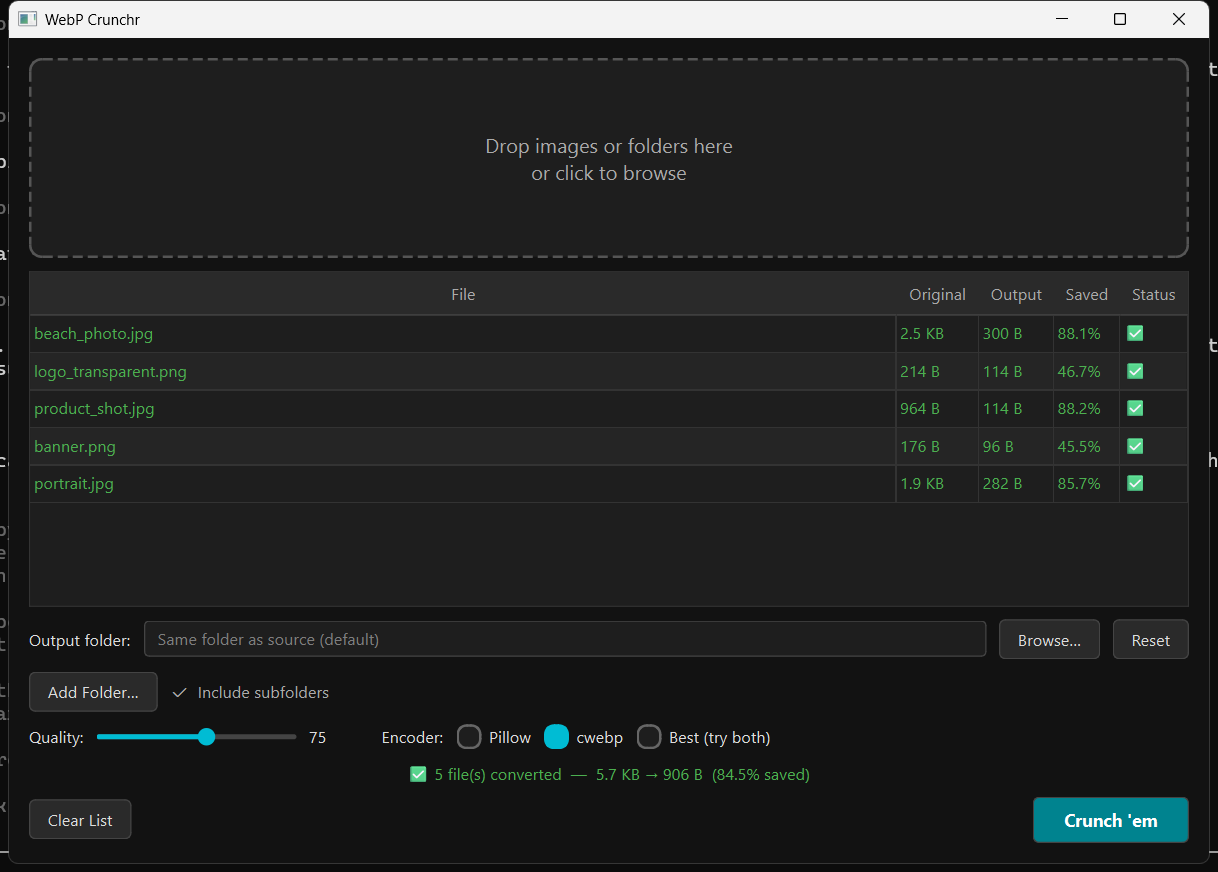
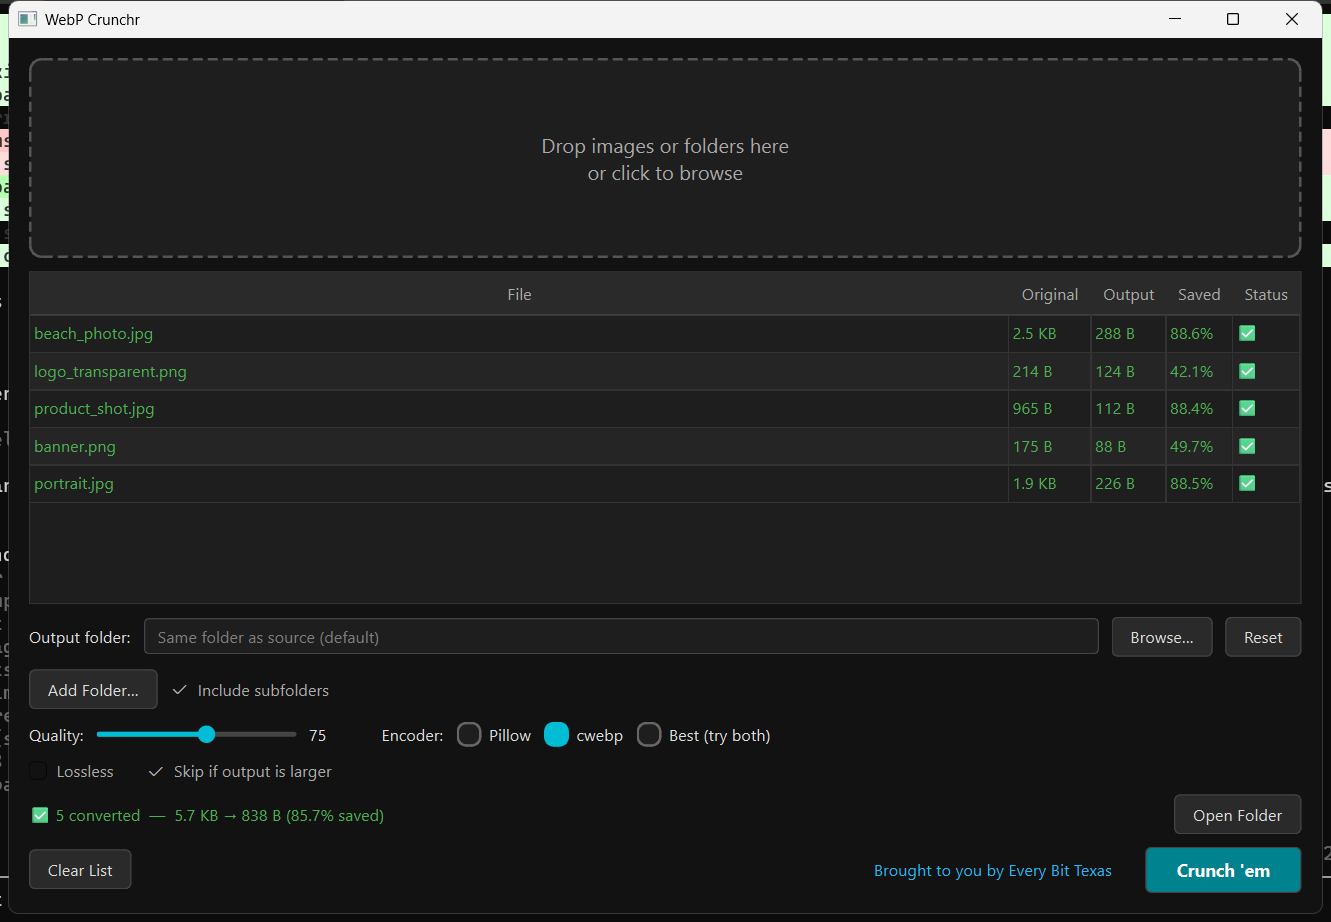
feat: lossless mode, skip-if-larger, open folder button, attribution link, updated screenshots
- converter: lossless param for both Pillow and cwebp backends
- converter: skip_if_larger option deletes output and returns 'skipped' if output >= source
- worker: passes lossless + skip_if_larger; file_done signal now includes status string
- ui: Lossless checkbox (default off)
- ui: 'Skip if output is larger' checkbox (default on)
- ui: 'Open Folder' button appears after conversion completes
- ui: 'Brought to you by Every Bit Texas' clickable attribution link
- ui: skipped status shown in amber with skip icon and counted in summary
- screenshots: refreshed both empty_state and results_state

diff --git a/ui/main_window.py b/ui/main_window.py
@@ -1,4 +1,5 @@
 import os
+import subprocess
 from pathlib import Path
 
 from PyQt6.QtWidgets import (
@@ -6,8 +7,8 @@ from PyQt6.QtWidgets import (
     QPushButton, QLabel, QSlider, QLineEdit, QFileDialog,
     QProgressBar, QCheckBox, QSizePolicy, QMessageBox, QRadioButton, QButtonGroup,
 )
-from PyQt6.QtCore import Qt, QThread, pyqtSignal, QObject
-from PyQt6.QtGui import QDragEnterEvent, QDropEvent
+from PyQt6.QtCore import Qt, QThread, pyqtSignal, QObject, QUrl
+from PyQt6.QtGui import QDragEnterEvent, QDropEvent, QDesktopServices
 
 from ui.drop_zone import DropZone
 from ui.file_list import FileListWidget, FileEntry
@@ -97,15 +98,18 @@ QRadioButton:disabled { color: #555; }
 
 
 class ConversionWorker(QObject):
-    progress = pyqtSignal(int, int)           # current, total
-    file_done = pyqtSignal(str, int, str)     # path, output_size, error
+    progress = pyqtSignal(int, int)               # current, total
+    file_done = pyqtSignal(str, int, str, str)    # path, output_size, error, status
     finished = pyqtSignal()
 
-    def __init__(self, entries: list[FileEntry], quality: int, encoder: str):
+    def __init__(self, entries: list[FileEntry], quality: int, encoder: str,
+                 lossless: bool = False, skip_if_larger: bool = False):
         super().__init__()
         self._entries = entries
         self._quality = quality
         self._encoder = encoder
+        self._lossless = lossless
+        self._skip_if_larger = skip_if_larger
         self._cancelled = False
 
     def cancel(self):
@@ -118,11 +122,19 @@ class ConversionWorker(QObject):
                 break
             dest = output_path(entry.path, entry.output_dir)
             try:
-                convert(entry.path, dest, self._quality, self._encoder)
-                size = Path(dest).stat().st_size
-                self.file_done.emit(entry.path, size, "")
+                result = convert(
+                    entry.path, dest, self._quality,
+                    encoder=self._encoder,
+                    lossless=self._lossless,
+                    skip_if_larger=self._skip_if_larger,
+                )
+                if result == "skipped":
+                    self.file_done.emit(entry.path, 0, "", "skipped")
+                else:
+                    size = Path(dest).stat().st_size
+                    self.file_done.emit(entry.path, size, "", "done")
             except Exception as exc:
-                self.file_done.emit(entry.path, -1, str(exc))
+                self.file_done.emit(entry.path, -1, str(exc), "error")
             self.progress.emit(i + 1, total)
         self.finished.emit()
 
@@ -169,7 +181,7 @@ class MainWindow(QMainWindow):
         out_row.addWidget(clear_out_btn)
         layout.addLayout(out_row)
 
-        # Add folder row
+        # Add folder + subfolder row
         folder_row = QHBoxLayout()
         add_folder_btn = QPushButton("Add Folder…")
         add_folder_btn.clicked.connect(self._pick_input_folder)
@@ -180,7 +192,7 @@ class MainWindow(QMainWindow):
         folder_row.addStretch()
         layout.addLayout(folder_row)
 
-        # Quality + cwebp row
+        # Quality + encoder row
         opts_row = QHBoxLayout()
         opts_row.addWidget(QLabel("Quality:"))
         self.quality_slider = QSlider(Qt.Orientation.Horizontal)
@@ -205,7 +217,6 @@ class MainWindow(QMainWindow):
         self._encoder_group.addButton(self._radio_pillow)
         self._encoder_group.addButton(self._radio_cwebp)
         self._encoder_group.addButton(self._radio_best)
-        # Default to cwebp — it's bundled and consistently produces smaller files
         self._radio_cwebp.setChecked(True)
         opts_row.addWidget(self._radio_pillow)
         opts_row.addWidget(self._radio_cwebp)
@@ -218,17 +229,36 @@ class MainWindow(QMainWindow):
         opts_row.addStretch()
         layout.addLayout(opts_row)
 
+        # Extra options row
+        extra_row = QHBoxLayout()
+        self.lossless_check = QCheckBox("Lossless")
+        self.lossless_check.setToolTip("Encode as lossless WebP — larger files but pixel-perfect. Best for logos and text graphics.")
+        extra_row.addWidget(self.lossless_check)
+        extra_row.addSpacing(16)
+        self.skip_larger_check = QCheckBox("Skip if output is larger")
+        self.skip_larger_check.setToolTip("Don't write the .webp file if it ends up bigger than the source.")
+        self.skip_larger_check.setChecked(True)
+        extra_row.addWidget(self.skip_larger_check)
+        extra_row.addStretch()
+        layout.addLayout(extra_row)
+
         # Progress bar
         self.progress_bar = QProgressBar()
         self.progress_bar.setVisible(False)
         layout.addWidget(self.progress_bar)
 
-        # Summary label
+        # Summary + open folder row
+        summary_row = QHBoxLayout()
         self.summary_label = QLabel("")
-        self.summary_label.setAlignment(Qt.AlignmentFlag.AlignCenter)
+        self.summary_label.setAlignment(Qt.AlignmentFlag.AlignVCenter)
         self.summary_label.setStyleSheet("color: #4caf50; font-size: 13px;")
         self.summary_label.setVisible(False)
-        layout.addWidget(self.summary_label)
+        summary_row.addWidget(self.summary_label, stretch=1)
+        self.open_folder_btn = QPushButton("Open Folder")
+        self.open_folder_btn.setVisible(False)
+        self.open_folder_btn.clicked.connect(self._open_output_folder)
+        summary_row.addWidget(self.open_folder_btn)
+        layout.addLayout(summary_row)
 
         # Action buttons row
         btn_row = QHBoxLayout()
@@ -236,6 +266,12 @@ class MainWindow(QMainWindow):
         self.clear_btn.clicked.connect(self._clear_list)
         btn_row.addWidget(self.clear_btn)
         btn_row.addStretch()
+        # Attribution link
+        attr_label = QLabel('<a href="https://everybittexas.com/" style="color:#29b6f6; text-decoration:none;">Brought to you by Every Bit Texas</a>')
+        attr_label.setOpenExternalLinks(True)
+        attr_label.setAlignment(Qt.AlignmentFlag.AlignVCenter)
+        btn_row.addWidget(attr_label)
+        btn_row.addSpacing(16)
         self.crunch_btn = QPushButton("Crunch 'em")
         self.crunch_btn.setObjectName("crunch_btn")
         self.crunch_btn.clicked.connect(self._start_conversion)
@@ -291,6 +327,7 @@ class MainWindow(QMainWindow):
         self.file_list.clear_entries()
         self.summary_label.setVisible(False)
         self.progress_bar.setVisible(False)
+        self.open_folder_btn.setVisible(False)
 
     def _start_conversion(self):
         entries = [e for e in self.file_list.entries() if e.status == "queued"]
@@ -306,7 +343,11 @@ class MainWindow(QMainWindow):
         else:
             encoder = ENCODER_PILLOW
 
+        lossless = self.lossless_check.isChecked()
+        skip_if_larger = self.skip_larger_check.isChecked()
+
         self.crunch_btn.setEnabled(False)
+        self.open_folder_btn.setVisible(False)
         self.progress_bar.setRange(0, len(entries))
         self.progress_bar.setValue(0)
         self.progress_bar.setVisible(True)
@@ -315,7 +356,7 @@ class MainWindow(QMainWindow):
         for e in entries:
             self.file_list.update_entry(e.path, status="processing")
 
-        self._worker = ConversionWorker(entries, quality, encoder)
+        self._worker = ConversionWorker(entries, quality, encoder, lossless, skip_if_larger)
         self._thread = QThread()
         self._worker.moveToThread(self._thread)
         self._thread.started.connect(self._worker.run)
@@ -330,32 +371,49 @@ class MainWindow(QMainWindow):
     def _on_progress(self, current: int, total: int):
         self.progress_bar.setValue(current)
 
-    def _on_file_done(self, path: str, output_size: int, error: str):
-        if error:
+    def _on_file_done(self, path: str, output_size: int, error: str, status: str):
+        if status == "error":
             self.file_list.update_entry(path, status="error", error_msg=error)
+        elif status == "skipped":
+            self.file_list.update_entry(path, status="skipped")
         else:
             self.file_list.update_entry(path, status="done", output_size=output_size)
 
     def _on_finished(self):
         self.crunch_btn.setEnabled(True)
+        self.progress_bar.setVisible(False)
         self._show_summary()
+
+    def _open_output_folder(self):
+        entries = self.file_list.entries()
+        done = [e for e in entries if e.status in ("done", "skipped")]
+        if not done:
+            return
+        # Use the first done entry's output dir (or source dir if default)
+        e = done[0]
+        folder = e.output_dir if e.output_dir else str(Path(e.path).parent)
+        QDesktopServices.openUrl(QUrl.fromLocalFile(folder))
 
     def _show_summary(self):
         entries = self.file_list.entries()
-        done = [e for e in entries if e.status == "done" and e.output_size is not None]
-        errors = [e for e in entries if e.status == "error"]
-        if not done:
+        done    = [e for e in entries if e.status == "done" and e.output_size is not None]
+        skipped = [e for e in entries if e.status == "skipped"]
+        errors  = [e for e in entries if e.status == "error"]
+        if not done and not skipped:
             return
-        total_in = sum(e.original_size for e in done)
-        total_out = sum(e.output_size for e in done)
-        saved = total_in - total_out
-        pct = (saved / total_in * 100) if total_in else 0
-        msg = (
-            f"✅ {len(done)} file(s) converted  —  "
-            f"{format_size(total_in)} → {format_size(total_out)}  "
-            f"({pct:.1f}% saved)"
-        )
+        parts = []
+        if done:
+            total_in  = sum(e.original_size for e in done)
+            total_out = sum(e.output_size for e in done)
+            pct = (1 - total_out / total_in) * 100 if total_in else 0
+            parts.append(
+                f"✅ {len(done)} converted  —  "
+                f"{format_size(total_in)} → {format_size(total_out)} ({pct:.1f}% saved)"
+            )
+        if skipped:
+            parts.append(f"⏭ {len(skipped)} skipped (already smallest)")
         if errors:
-            msg += f"  ⚠ {len(errors)} error(s)"
-        self.summary_label.setText(msg)
+            parts.append(f"⚠ {len(errors)} error(s)")
+        self.summary_label.setText("   ".join(parts))
         self.summary_label.setVisible(True)
+        self.open_folder_btn.setVisible(True)

diff --git a/core/converter.py b/core/converter.py
@@ -20,7 +20,6 @@ ENCODER_BEST   = "best"
 
 
 def _cwebp_path() -> str | None:
-    """Return path to cwebp: bundled copy first, then system PATH."""
     if hasattr(sys, "_MEIPASS"):
         bundled = Path(sys._MEIPASS) / "cwebp.exe"
         if bundled.exists():
@@ -35,7 +34,7 @@ def cwebp_available() -> bool:
     return _cwebp_path() is not None
 
 
-def convert_with_pillow(src: str, dest: str, quality: int) -> None:
+def convert_with_pillow(src: str, dest: str, quality: int, lossless: bool = False) -> None:
     with Image.open(src) as img:
         if getattr(img, "is_animated", False):
             img.seek(0)
@@ -45,37 +44,60 @@ def convert_with_pillow(src: str, dest: str, quality: int) -> None:
             out = img.convert("RGBA")
         else:
             out = img.convert("RGB")
-        out.save(dest, format="WEBP", quality=quality, method=6, lossless=False, exif=b"")
+        if lossless:
+            out.save(dest, format="WEBP", lossless=True, method=6, exif=b"")
+        else:
+            out.save(dest, format="WEBP", quality=quality, method=6, lossless=False, exif=b"")
 
 
-def convert_with_cwebp(src: str, dest: str, quality: int) -> None:
+def convert_with_cwebp(src: str, dest: str, quality: int, lossless: bool = False) -> None:
     exe = _cwebp_path()
-    cmd = [exe, "-q", str(quality), "-m", "6", "-metadata", "none", src, "-o", dest]
+    if lossless:
+        cmd = [exe, "-lossless", "-z", "9", "-metadata", "none", src, "-o", dest]
+    else:
+        cmd = [exe, "-q", str(quality), "-m", "6", "-metadata", "none", src, "-o", dest]
     result = subprocess.run(cmd, capture_output=True, text=True)
     if result.returncode != 0:
         raise RuntimeError(f"cwebp failed: {result.stderr.strip()}")
 
 
-def convert_best(src: str, dest: str, quality: int) -> None:
+def convert_best(src: str, dest: str, quality: int, lossless: bool = False) -> None:
     """Encode with both Pillow and cwebp, write whichever is smaller."""
     with tempfile.TemporaryDirectory() as tmp:
         p_out = str(Path(tmp) / "pillow.webp")
         c_out = str(Path(tmp) / "cwebp.webp")
-
-        convert_with_pillow(src, p_out, quality)
-        convert_with_cwebp(src, c_out, quality)
-
-        p_size = Path(p_out).stat().st_size
-        c_size = Path(c_out).stat().st_size
-        winner = c_out if c_size <= p_size else p_out
+        convert_with_pillow(src, p_out, quality, lossless)
+        convert_with_cwebp(src, c_out, quality, lossless)
+        winner = c_out if Path(c_out).stat().st_size <= Path(p_out).stat().st_size else p_out
         Path(dest).write_bytes(Path(winner).read_bytes())
 
 
-def convert(src: str, dest: str, quality: int, encoder: str = ENCODER_CWEBP) -> None:
+def convert(
+    src: str,
+    dest: str,
+    quality: int,
+    encoder: str = ENCODER_CWEBP,
+    lossless: bool = False,
+    skip_if_larger: bool = False,
+) -> str:
+    """
+    Convert src to WebP at dest. Returns 'converted', 'skipped', or raises on error.
+    'skipped' means the output would have been larger than the source.
+    """
     Path(dest).parent.mkdir(parents=True, exist_ok=True)
+
     if encoder == ENCODER_BEST and cwebp_available():
-        convert_best(src, dest, quality)
+        convert_best(src, dest, quality, lossless)
     elif encoder == ENCODER_CWEBP and cwebp_available():
-        convert_with_cwebp(src, dest, quality)
+        convert_with_cwebp(src, dest, quality, lossless)
     else:
-        convert_with_pillow(src, dest, quality)
+        convert_with_pillow(src, dest, quality, lossless)
+
+    if skip_if_larger:
+        src_size = Path(src).stat().st_size
+        out_size = Path(dest).stat().st_size
+        if out_size >= src_size:
+            Path(dest).unlink(missing_ok=True)
+            return "skipped"
+
+    return "converted"

diff --git a/ui/file_list.py b/ui/file_list.py
@@ -24,6 +24,7 @@ STATUS_ICONS = {
     "queued":     "⏳",
     "processing": "⚙️",
     "done":       "✅",
+    "skipped":    "⏭",
     "error":      "❌",
 }
 
@@ -31,6 +32,7 @@ STATUS_COLORS = {
     "queued":     QColor("#888888"),
     "processing": QColor("#00bcd4"),
     "done":       QColor("#4caf50"),
+    "skipped":    QColor("#f9a825"),
     "error":      QColor("#f44336"),
 }
 